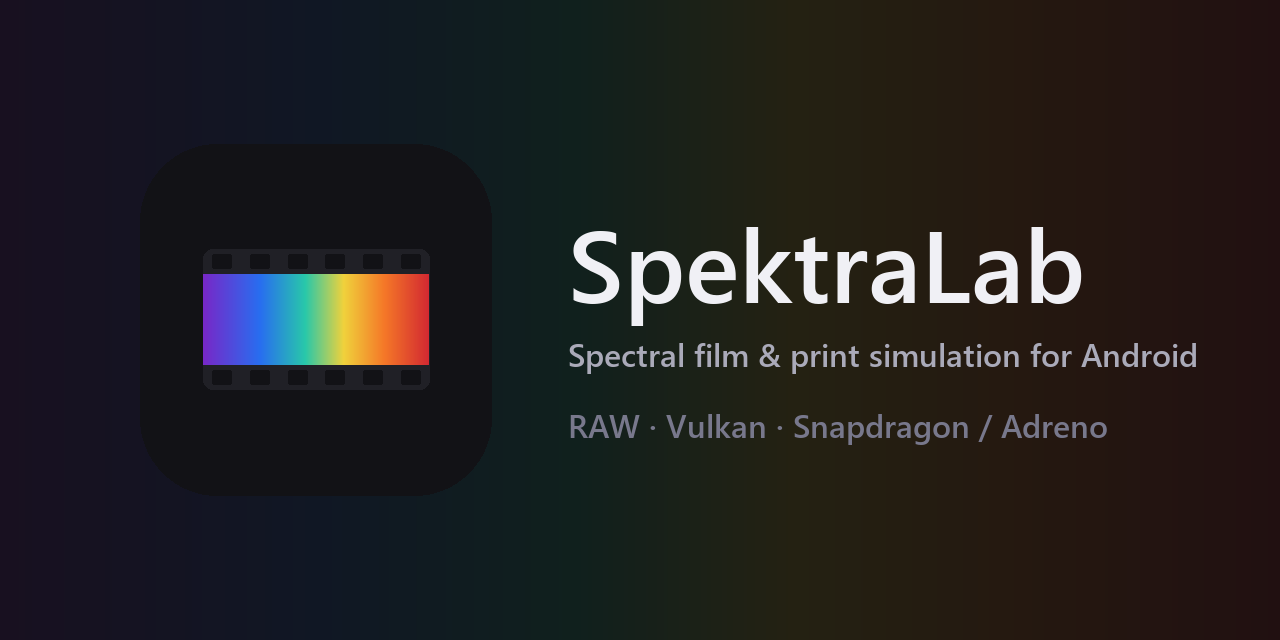
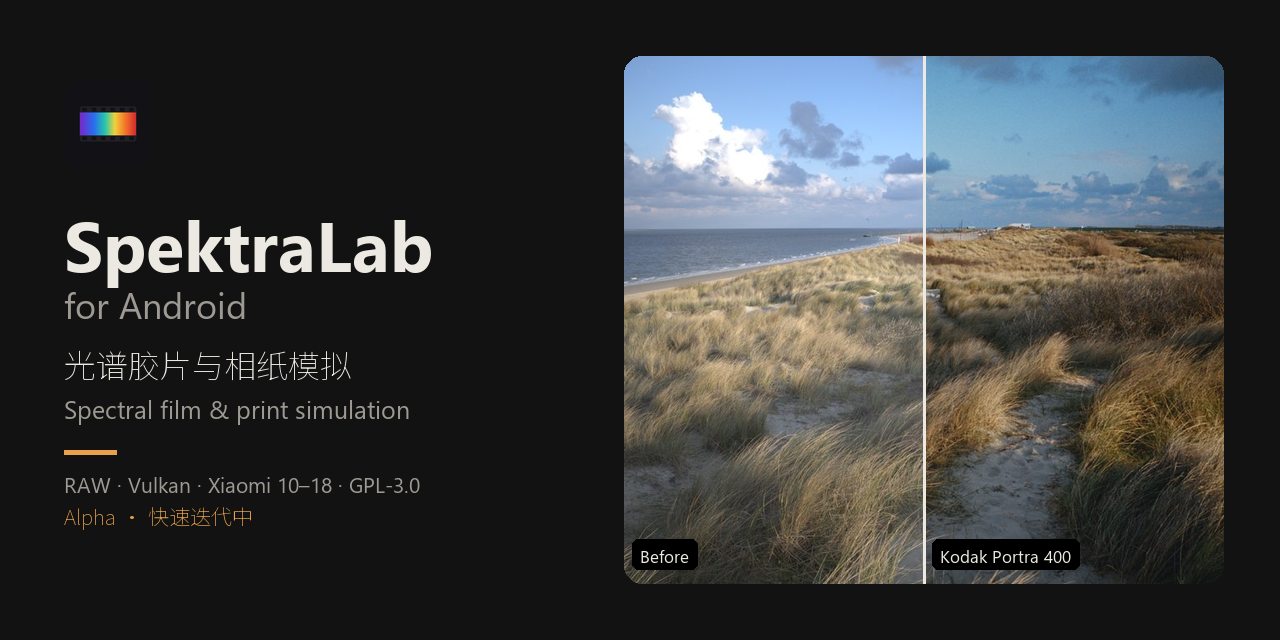
docs(images): social preview and feature graphic from the real dunes render
make-banners.py draws both from docs/images/samples/compare_dunes.jpg
(neutral decode | Kodak Portra 400), so the banners show engine output.

diff --git a/docs/images/make-banners.py b/docs/images/make-banners.py
@@ -1,0 +1,125 @@
+"""Draw the repository banners from the README sample renders.
+
+  social-preview.png   1280 x 640, GitHub Settings -> Social preview
+  ../../fastlane/metadata/android/en-US/images/featureGraphic.png   1024 x 500
+
+The photo is the dunes sample (docs/images/samples/compare_dunes.jpg): the
+left half of the frame from the neutral decode, the right half from the
+Kodak Portra 400 render, so the banner shows the engine's real output.
+
+Usage: python make-banners.py [FONT_DIR]
+FONT_DIR must hold a Latin sans (regular and bold) and a CJK sans; the names
+tried are listed in FONTS. Needs Pillow.
+"""
+import os
+import sys
+from PIL import Image, ImageDraw, ImageFont
+
+HERE = os.path.dirname(os.path.abspath(__file__))
+SAMPLE = os.path.join(HERE, "samples", "compare_dunes.jpg")
+ICON = os.path.join(HERE, "..", "..", "fastlane", "metadata", "android", "en-US", "images", "icon.png")
+
+BG = (18, 18, 18)
+FG = (236, 233, 227)
+DIM = (158, 154, 147)
+AMBER = (232, 162, 74)
+
+# Panel boxes inside compare_*.jpg (left: neutral decode, right: film render).
+BEFORE = (40, 40, 992, 676)
+AFTER = (1008, 40, 1960, 676)
+
+FONTS = {
+    "sans": ["NotoSans-Regular.ttf", "segoeui.ttf", "DejaVuSans.ttf"],
+    "bold": ["NotoSans-Bold.ttf", "segoeuib.ttf", "DejaVuSans-Bold.ttf"],
+    "cjk": ["NotoSansSC-VF.ttf", "NotoSansCJK-Regular.ttc", "msyh.ttc"],
+}
+
+
+def font(kind, size, dirs):
+    for d in dirs:
+        for name in FONTS[kind]:
+            path = os.path.join(d, name)
+            if os.path.exists(path):
+                return ImageFont.truetype(path, size)
+    sys.exit(f"no {kind} font found in {dirs}; pass a font directory")
+
+
+def rounded(img, radius):
+    mask = Image.new("L", img.size, 0)
+    ImageDraw.Draw(mask).rounded_rectangle((0, 0, img.size[0] - 1, img.size[1] - 1), radius, fill=255)
+    out = Image.new("RGBA", img.size)
+    out.paste(img, (0, 0), mask)
+    return out
+
+
+def split_photo(w, h):
+    """The same crop from both panels, before on the left, film on the right."""
+    sample = Image.open(SAMPLE).convert("RGB")
+    before = sample.crop(BEFORE)
+    after = sample.crop(AFTER)
+    pw, ph = before.size
+    # Largest w:h crop, centred, biased toward the foreground grass.
+    if pw / ph > w / h:
+        cw, ch = int(ph * w / h), ph
+    else:
+        cw, ch = pw, int(pw * h / w)
+    x0 = (pw - cw) // 2
+    y0 = (ph - ch) * 2 // 3
+    box = (x0, y0, x0 + cw, y0 + ch)
+    b = before.crop(box).resize((w, h), Image.LANCZOS)
+    a = after.crop(box).resize((w, h), Image.LANCZOS)
+    out = a.copy()
+    out.paste(b.crop((0, 0, w // 2, h)), (0, 0))
+    d = ImageDraw.Draw(out)
+    d.rectangle((w // 2 - 1, 0, w // 2 + 1, h), fill=FG)
+    return out
+
+
+def banner(W, H, dirs, path):
+    s = W / 1280
+    img = Image.new("RGB", (W, H), BG)
+    d = ImageDraw.Draw(img)
+
+    pad = int(56 * s)
+    pw = int(600 * s)
+    ph = H - 2 * pad
+    photo = rounded(split_photo(pw, ph), int(18 * s))
+    px = W - pad - pw
+    img.paste(photo, (px, pad), photo)
+    small = font("sans", int(17 * s), dirs)
+    for text, x in (("Before", px + int(16 * s)), ("Kodak Portra 400", px + pw // 2 + int(16 * s))):
+        tw = d.textlength(text, font=small)
+        y = pad + ph - int(40 * s)
+        d.rounded_rectangle((x - int(8 * s), y - int(5 * s), x + tw + int(8 * s), y + int(25 * s)),
+                            int(6 * s), fill=(0, 0, 0))
+        d.text((x, y), text, font=small, fill=FG)
+
+    x = pad + int(8 * s)
+    icon = Image.open(ICON).convert("RGBA").resize((int(88 * s),) * 2, Image.LANCZOS)
+    img.paste(icon, (x, pad + int(24 * s)), icon)
+
+    y = pad + int(140 * s)
+    d.text((x, y), "SpektraLab", font=font("bold", int(70 * s), dirs), fill=FG)
+    y += int(84 * s)
+    d.text((x, y), "for Android", font=font("sans", int(36 * s), dirs), fill=DIM)
+    y += int(66 * s)
+    d.text((x, y), "光谱胶片与相纸模拟", font=font("cjk", int(32 * s), dirs), fill=FG)
+    y += int(46 * s)
+    d.text((x, y), "Spectral film & print simulation", font=font("sans", int(25 * s), dirs), fill=DIM)
+    y += int(58 * s)
+    d.rectangle((x, y, x + int(52 * s), y + int(4 * s)), fill=AMBER)
+    y += int(20 * s)
+    d.text((x, y), "RAW · Vulkan · Xiaomi 10–18 · GPL-3.0", font=font("sans", int(21 * s), dirs), fill=DIM)
+    y += int(34 * s)
+    d.text((x, y), "Alpha · 快速迭代中", font=font("cjk", int(21 * s), dirs), fill=AMBER)
+
+    img.save(path, optimize=True)
+    print(path, img.size, os.path.getsize(path), "bytes")
+
+
+if __name__ == "__main__":
+    dirs = sys.argv[1:] or ["/usr/share/fonts/truetype/noto", "/usr/share/fonts/opentype/noto",
+                            "/usr/share/fonts/truetype/dejavu", r"C:\Windows\Fonts"]
+    banner(1280, 640, dirs, os.path.join(HERE, "social-preview.png"))
+    banner(1024, 500, dirs, os.path.normpath(os.path.join(HERE, "..", "..", "fastlane", "metadata",
+                                                           "android", "en-US", "images", "featureGraphic.png")))
